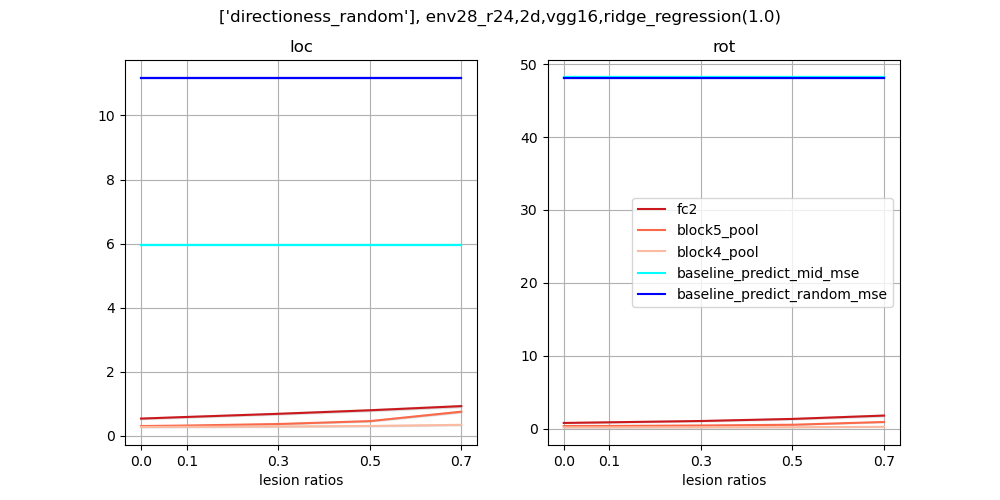
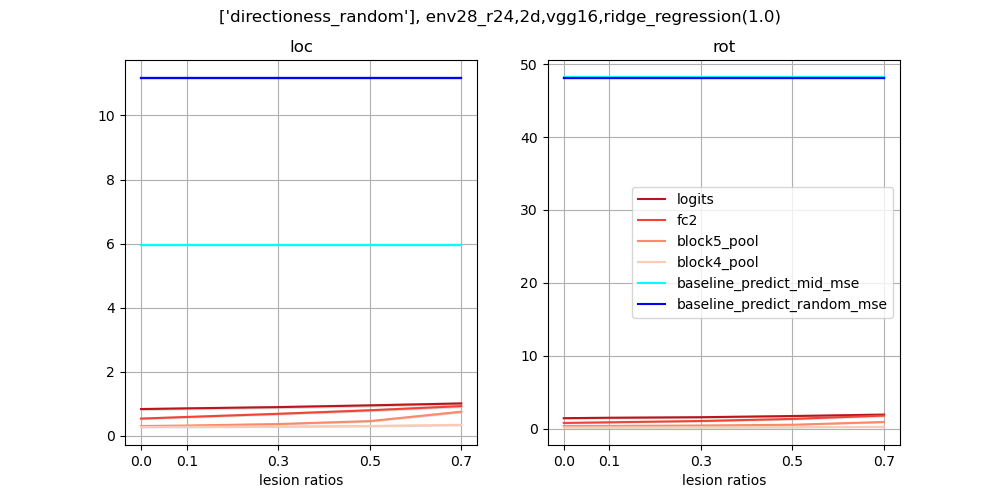
add figs: lesion by directioness inc. logits layer; random

Changed region(s): [[0.62, 0.39, 0.899, 0.63], [0.558, 0.81, 0.899, 0.87], [0.124, 0.78, 0.465, 0.87]]

diff --git a/location_n_rotation_prediction.py b/location_n_rotation_prediction.py
@@ -1351,7 +1351,7 @@ if __name__ == '__main__':
     reference_experiment = 'unit_chart'   #'loc_n_rot|border_dist|unit_chart'
     metric = 'directioness'
     thr = '0'                            # if metric=='coef', thr='thr', else '0'
-    rank = 'top'
+    rank = 'random'
     target = ''                          # if metric=='coef', target='_loc|_rot', else ''
     feature_selections = [
         'l2',
